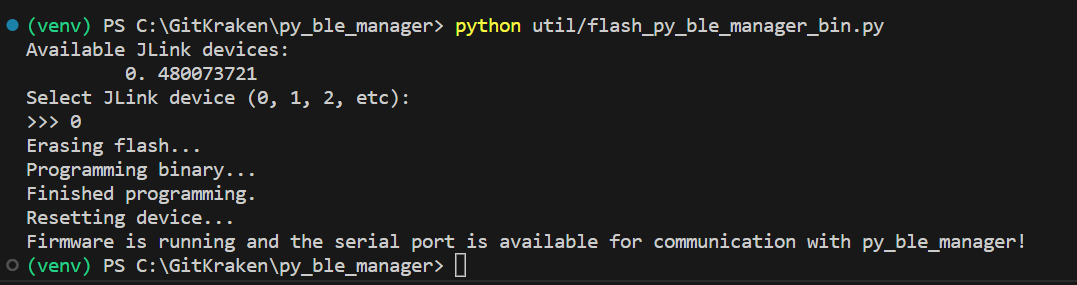
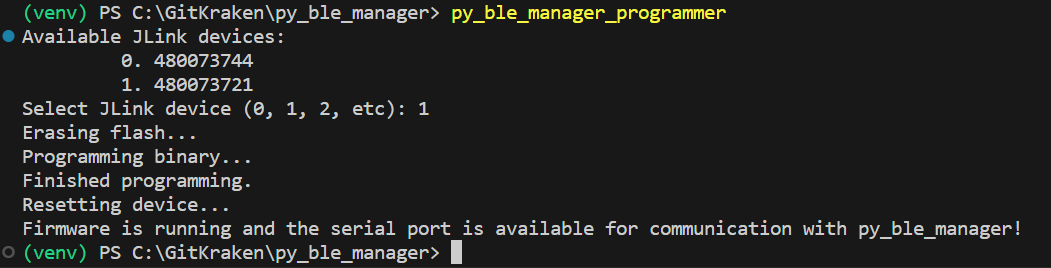
rename programming python file, update READMEs for executable

Changed region(s): [[0.0, 0.0, 0.9743, 0.9851]]

diff --git a/src/py_ble_manager/util/py_ble_manager_programmer.py b/src/py_ble_manager/util/py_ble_manager_programmer.py
@@ -86,8 +86,7 @@ def prompt_for_jlink_to_use(device_list: list[str]) -> int:
     print("Available JLink devices:")
     for i in range(0, len(device_list)):
         print(f"\t {i}. {device_list[i]}")
-    print("Select JLink device (0, 1, 2, etc):")
-    return int(input(">>> "))
+    return int(input("Select JLink device (0, 1, 2, etc): "))
 
 
 def main():

diff --git a/README.md b/README.md
@@ -18,26 +18,26 @@ The primary intent is for use as a central device for benchtop testing, continuo
 
     ![da14531_jumpers](assets/da14531_pro_kit_jumpers.png)
 
-3. [Download](util/) the GTL enabled [firmware binary](firmware/da14531mod_pro_kit_921600.bin) to the DA14531 Pro Development kit.
+3. Open a command prompt or terminal and navigate to the repository on your PC.
 
-4. Open a command prompt or terminal and navigate to the repository on your PC.
+4. Setup a virtual environment by calling: `<path_to/py_ble_manager>$ python -m venv ./venv`. Note this library has been tested with Python v3.10.5. To create a virtual environment that uses Python 3.10.5, you must already have Python 3.10.5 downloaded on your computer. To use the above command to create a Python 3.10.5 environment, Python 3.10.5 must be configured in your PATH. You can download it from the [python website](https://www.python.org/downloads/release/python-3105/).
 
-5. Setup a virtual environment by calling: `<path_to/py_ble_manager>$ python -m venv ./venv`. Note this library has been tested with Python v3.10.5. To create a virtual environment that uses Python 3.10.5, you must already have Python 3.10.5 downloaded on your computer. To use the above command to create a Python 3.10.5 environment, Python 3.10.5 must be configured in your PATH. You can download it from the [python website](https://www.python.org/downloads/release/python-3105/).
+5. Activate the virtual environment. The specific command depends on your operating system. From a windows command prompt call: `<path_to_venv>\Scripts\activate.bat`
 
-6. Activate the virtual environment. The specific command depends on your operating system. From a windows command prompt call: `<path_to_venv>\Scripts\activate.bat`
-
-7. Call: `pip install ".[ezFlashCLI,prompt_toolkit]"` to install the py_ble_manager package and its dependencies.
+6. Call: `pip install ".[ezFlashCLI,prompt_toolkit]"` to install the py_ble_manager package and its dependencies.
 
     > **_NOTE:_**
       [ezFlashCLI](https://pypi.org/project/ezFlashCLI/) and [prompt_toolkit](https://pypi.org/project/prompt-toolkit/)
       are optional dependencies. ``ezFlashCLI`` can be used to program the development kit with GTL compatible firmware.
       ``prompt_toolkit`` is used in some of the examples to provide a command line interface.
 
+7. [Download](src/py_ble_manager/util/) the py_ble_manager compatible [firmware binary](firmware/da14531mod_pro_kit_921600.bin) to the DA14531 Pro Development kit.
+
 8. The package is now installed and you are ready to run one of the [examples](examples)
 
 ## Quick Start (VS Code)
 
-1. Follow steps 1-3 in the [Quick Start](#quick-start) section.
+1. Follow steps 1-2 in the [Quick Start](#quick-start) section.
 
 2. Open the `py_ble_manager` repository directory in VS Code.
 
@@ -53,7 +53,9 @@ Open a new terminal in VS Code and the virtual environment will be activated.
       are optional dependencies. ``ezFlashCLI`` can be used to program the development kit with GTL compatible firmware.
       ``prompt_toolkit`` is used in some of the examples to provide a command line interface.
 
-6. The package is now installed and you are ready to run one of the [examples](examples)
+6. [Download](src/py_ble_manager/util/) the py_ble_manager compatible [firmware binary](firmware/da14531mod_pro_kit_921600.bin) to the DA14531 Pro Development kit.
+
+7. The package is now installed and you are ready to run one of the [examples](examples)
 
 ## Basic Usage
 

diff --git a/src/py_ble_manager/util/README.md b/src/py_ble_manager/util/README.md
@@ -1,10 +1,16 @@
-# flash_py_ble_manager_bin
+# py_ble_manager_programmer
 
 A utility for programming DA14xxx development kit flash with py_ble_manager compatible firmware.
 
-You can run it with:
+If you have installed py_ble_manager, you can call the executable in your <Python install dir>/Scripts>:
 
-`python flash_py_ble_manager_bin.py`
+`py_ble_manager_programmer`
+
+To run the python script directly call:
+
+> **_NOTE:_** If py_ble_manager_programmer is not found in your terminal, ensure <Python install dir>/Scripts is in your path.
+
+`python py_ble_manager_programmer.py`
 
 Once running the script will:
 
